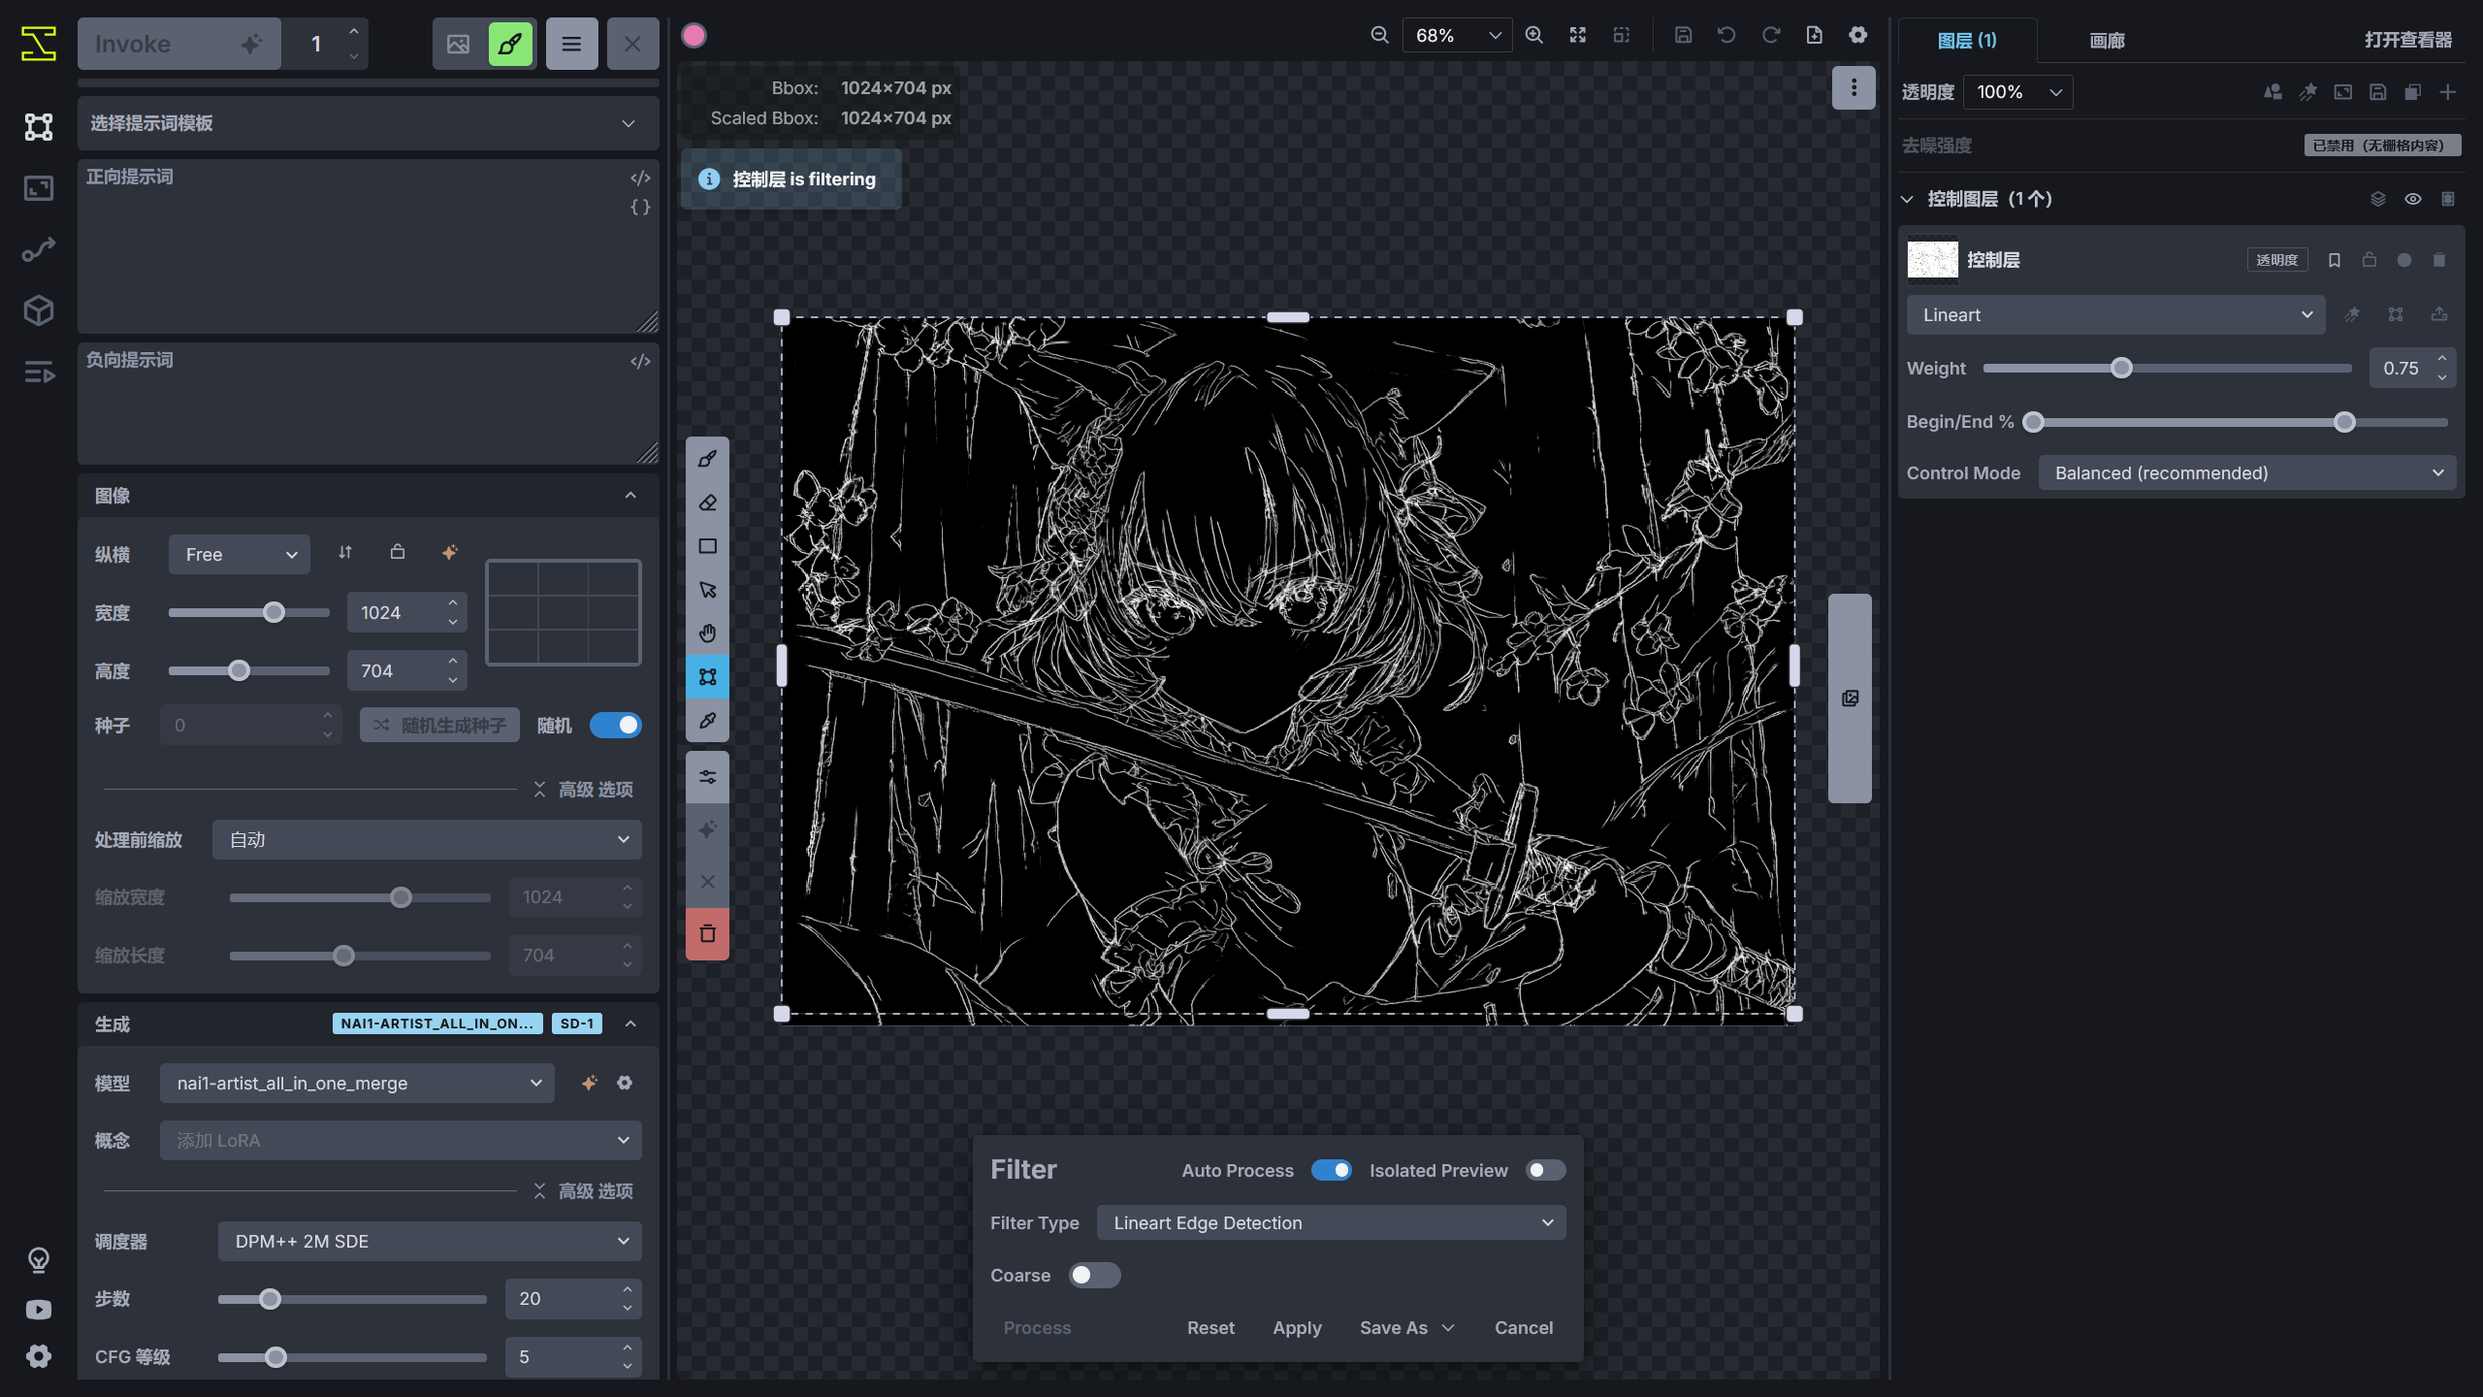
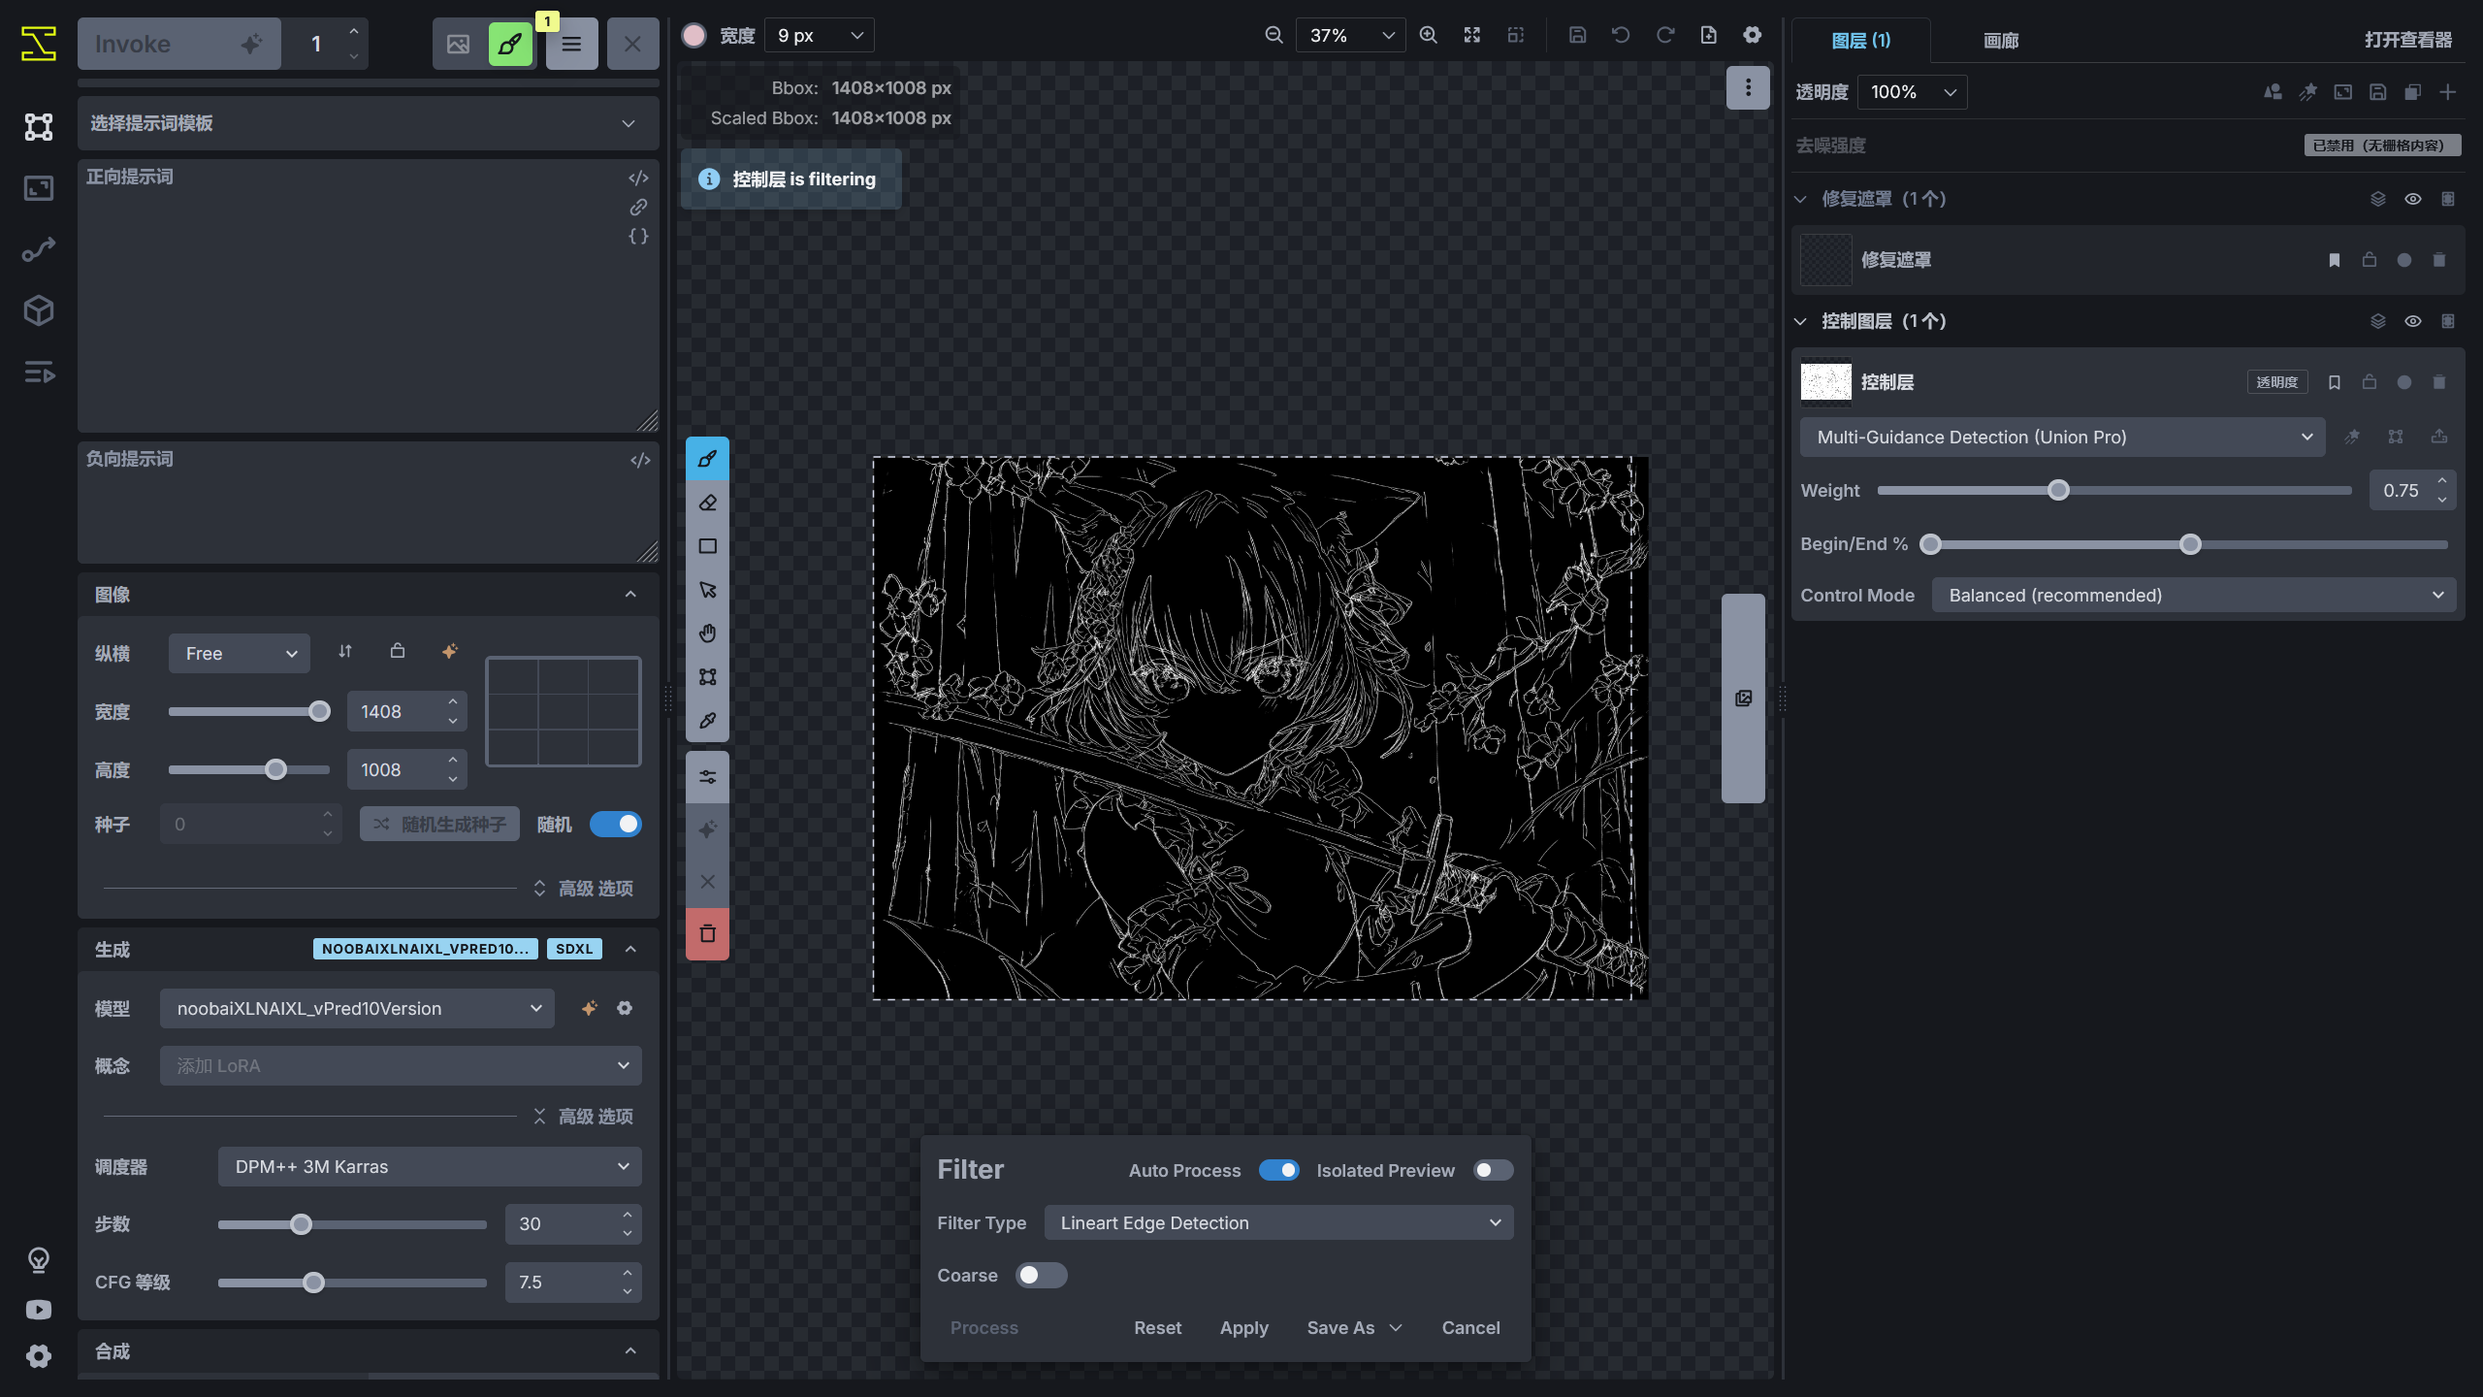
update

diff --git a/docs/guide/invokeai/canvas.md b/docs/guide/invokeai/canvas.md
@@ -544,7 +544,60 @@ masterpiece,best quality,newest,amazing quality,very aesthetic,absurdres,
 
 _这张我是真喜欢~_
 
-<!-- TODO: 下面的教程基于 sd 1.5 的, 得重新写一遍了 -->
+
+### 背景替换
+前面的那张图片是纯色背景的，现在我想把背景替换一下，
+
+此时可以选择该图片的**栅格层**，右键画布，使用**元素选取(Select Object)**功能将图片的人物选取出来。
+
+![use_select_object_to_select_character](../../assets/images/guide/invokeai/canvas/use_select_object_to_select_character.png)
+
+因为现在需要替换背景，所以将选择结果进行反选，启用 **Invert Selection** 后原来的结果将进行反选。
+
+![invert_select_object_result](../../assets/images/guide/invokeai/canvas/invert_select_object_result.png)
+
+此时点击 **Save As** 将选择结果保存为**修复遮罩**。将**去噪强度**设置为 1，再对画面进行描述。
+
+```
+2girls,yuri,hug,heads together,
+outdoors,scenery,park,on grass,flowers,grass,tree,under tree,cherry blossoms,near river,bug,butterfly,pink butterfly,day,blue sky,
+front view,
+masterpiece,best quality,newest,amazing quality,very aesthetic,absurdres,
+```
+
+![modify_replace_background_config](../../assets/images/guide/invokeai/canvas/modify_replace_background_config.png)
+
+现在尝试 **Invoke** 将原图的背景进行重绘。
+
+![replace_background_result_1](../../assets/images/guide/invokeai/canvas/replace_background_result_1.png)
+
+可以看到原来的背景已经替换，并且原来图片中的人物还保持着原来的样子。
+
+但是会发现人物边缘似乎多了另一个人物的影子，这时因为对画面进行描述的提示词中包含了人物的描述，并且**去噪强度**很高，所以模型生成了一个人，但是人物的位置发生了偏移。
+
+这时可以删去提示词中关于人物的描述，这种问题就可以得到缓解，或者可以尝试使用**控制层**控制人物，使人物的位置不发生偏移。
+
+这里**元素选取(Select Object)**功能将图片的人物选取出来，点击 **Save As** 将选取结果保存到**控制层**中。
+
+在刚刚新建的**控制层**选择 **Multi-Guidance Detection (Union Pro)** 模型（如果没有就在 InvokeAI 的模型管理的**初始模型**中下载），再右键该**控制层**，选择 **Fitter**，将保存到**控制层**的图片进行预处理。
+
+![filter_image_for_control_layer](../../assets/images/guide/invokeai/canvas/filter_image_for_control_layer.png)
+
+**Fitter Type** 选择 **Canny Edge Detection**。
+
+![filter_image_for_control_layer_result](../../assets/images/guide/invokeai/canvas/filter_image_for_control_layer_result.png)
+
+将预处理图片的结果点击 **Apply** 进行应用。
+
+![apply_filter_image_result](../../assets/images/guide/invokeai/canvas/apply_filter_image_result.png)
+
+现在在尝试 **Invoke** 进行生成。
+
+![replace_background_result_2](../../assets/images/guide/invokeai/canvas/replace_background_result_2.png)
+
+现在可以发现原来的问题得到了很好的解决。
+
+
 ### 线稿上色与风格迁移
 这里有一张白色的线稿，准备用于上色，一张图片用于保持人物一致性，另一张图片用于画风迁移，此时可以借助统一画布的**控制层**和**区域导向**实现线稿上色和画风迁移。
 
@@ -556,16 +609,16 @@ _这张我是真喜欢~_
 
 ![input_image_to_control_layer](../../assets/images/guide/invokeai/canvas/input_image_to_control_layer.png)
 
-这里先调整边界框的大小，调整好后在右侧的图层面板中选择刚刚新建的**控制层**，再右键画布，选择**图片变换(Transform)**缩放线稿到边界框中。
+这里先调整边界框的大小，调整好后在右侧的图层面板中选择刚刚新建的**控制层**，右键打开菜单，选择**图片变换(Transform)**缩放线稿到边界框中。
 
 ![use_transform_to_resize_image](../../assets/images/guide/invokeai/canvas/use_transform_to_resize_image.png)
 
-缩放完成后点击 **Apply** 将结果应用，在**控制层**的模型选项中选择 Lineart / Lineart Anime 模型。
+缩放完成后点击 **Apply** 将结果应用，在**控制层**的模型选项中选择 **Multi-Guidance Detection (Union Pro)** 模型。
 
 !!!note
-    如果没有模型，需要在 InvokeAI 的模型管理的**初始模型**选项下载 **Lineart** / **Lineart Anime** 模型（需要对应自己使用的大模型版本）。
+    如果没有模型，需要在 InvokeAI 的模型管理的**初始模型**选项下载 **Multi-Guidance Detection (Union Pro)** 模型。
 
-此时 InvokeAI 将选择 ControlNet 模型对应的预处理进行图片预处理。
+再右键该**控制层**，选择 **Fitter**，将保存到**控制层**的图片进行预处理。**Fitter Type** 选择 **Lineart Edge Detection**，再点击 **Apply** 保存预处理结果。
 
 ![select_controlnet_model_and_filter_image](../../assets/images/guide/invokeai/canvas/select_controlnet_model_and_filter_image.png)
 
@@ -574,72 +627,25 @@ _这张我是真喜欢~_
 ![paint_mask_for_regional_reference](../../assets/images/guide/invokeai/canvas/paint_mask_for_regional_reference.png)
 
 !!!note
-    **区域导向**所需的模型需要在 InvokeAI 的模型管理的**初始模型**选项中下载，对应的模型名称为 IP Adapter。
+    **区域导向**所需的模型需要在 InvokeAI 的模型管理的**初始模型**选项中下载，对应的模型名称为 **Standard Reference (IP Adapter ViT-H)**。
 
 绘制蒙版完成后，调整**控制层**和**区域导向**的参数，再填写提示词。
 
 ```
-asagi0398, 
 1girl,solo,cherry blossoms,hair flower,pink flower,hair ribbon,cat ears,animal ear fluff,blue eyes,grey hair,short hair,bangs,hair between eyes,eyebrows visible through hair,blush,closed mouth,neck ribbon,white dress,crease,frilled_collar,detached_sleeves,flat chest,
 holding sword,looking at viewer,dynamic pose,
 battoujutsu stance,motion blur,sword,battoujutsu stance,bamboo forest,
 upper body,
-masterpiece,best quality,newest,
+masterpiece,best quality,newest,amazing quality,very aesthetic,absurdres,
 ```
 
 ![configure_control_layer_and_regional_reference](../../assets/images/guide/invokeai/canvas/configure_control_layer_and_regional_reference.png)
 
 调整参数后尝试几次 **Invoke**，从中挑选一个比较好的结果。
 
-![configure_control_layer_and_regional_reference](../../assets/images/guide/invokeai/canvas/configure_control_layer_and_regional_reference.png)
+![use_control_layer_and_regional_reference_to_generate_image](../../assets/images/guide/invokeai/canvas/use_control_layer_and_regional_reference_to_generate_image.png)
 
 现在可以看到线稿已经上色了，并且画风成功迁移到上色后的图片中。
-
-
-### 背景替换
-这是一张图片，打算把背景的内容进行替换。
-
-![image_to_replace_background](../../assets/images/guide/invokeai/canvas/image_to_replace_background.png)
-
-此时可以选择该图片的**栅格层**，右键画布，使用**元素选取(Select Object)**功能将图片的人物选取出来。
-
-![use_select_object_to_select_character](../../assets/images/guide/invokeai/canvas/use_select_object_to_select_character.png)
-
-因为现在需要替换背景，所以将选择结果进行反选，启用 **Invert Selection** 后原来的结果将进行反选。
-
-![invert_select_object_result](../../assets/images/guide/invokeai/canvas/invert_select_object_result.png)
-
-此时点击 **Save As** 将选择结果保存为**修复遮罩**。将**去噪强度**设置比较高的值，再对画面进行描述。
-
-![modify_replace_background_config](../../assets/images/guide/invokeai/canvas/modify_replace_background_config.png)
-
-现在尝试 **Invoke** 将原图的背景进行重绘。
-
-![replace_background_result_1](../../assets/images/guide/invokeai/canvas/replace_background_result_1.png)
-
-可以看到原来的背景已经替换，并且原来图片中的人物还保持着原来的样子。
-
-但是将**去噪强度**设置为更高的值或者 1 时，可能会发现人物边缘似乎多了另一个人物的影子，这时因为对画面进行描述的提示词中包含了人物的描述，并且**去噪强度**很高，所以模型生成了一个人，但是人物的位置发生了偏移。
-
-这时可以删去提示词中关于人物的描述，并且将**去噪强度**设置为 1，这种问题就可以得到缓解，或者可以尝试使用**控制层**控制人物，使人物的位置不发生偏移。
-
-这里**元素选取(Select Object)**功能将图片的人物选取出来，点击 **Save As** 将选取结果保存到**控制层**中。
-
-![use_select_object_to_select_character_again](../../assets/images/guide/invokeai/canvas/use_select_object_to_select_character_again.png)
-
-在刚刚新建的**控制层**选择 ControlNet Canny 模型（如果没有就在 InvokeAI 的模型管理的**初始模型**中下载），将保存到**控制层**的图片进行预处理。
-
-![filter_image_for_control_layer](../../assets/images/guide/invokeai/canvas/filter_image_for_control_layer.png)
-
-将预处理图片的结果点击 **Apply** 进行应用。
-
-![apply_filter_image_result](../../assets/images/guide/invokeai/canvas/apply_filter_image_result.png)
-
-现在在尝试 **Invoke** 进行生成。
-
-![replace_background_result_2](../../assets/images/guide/invokeai/canvas/replace_background_result_2.png)
-
-现在可以发现原来的问题得到了很好的解决。
 
 
 ### 其他应用

diff --git a/docs/guide/sd_webui/install.md b/docs/guide/sd_webui/install.md
@@ -1,6 +1,5 @@
 # Windows 平台
-
-## 整合包部署
+## 整合包(秋葉aaaki)部署
 （推荐）前往 [秋葉aaaki](https://space.bilibili.com/12566101) 的视频获取下载链接。  
 [【AI绘画·24年3月最新】Stable Diffusion整合包v4.7发布！解压即用 防爆显存 三分钟入门AI绘画 ☆更新 ☆训练 ☆汉化 秋叶整合包](https://www.bilibili.com/video/BV1iM4y1y7oA)
 
@@ -14,6 +13,10 @@
 
 !!!note
     秋葉的整合包密码为`bilibili-秋葉aaaki`，详情请阅读[秋葉aaaki的动态](https://www.bilibili.com/opus/923836599107584017)。
+
+
+## 整合包(licyk)部署
+[AI 绘画 / 训练整合包 · licyk/sd-webui-all-in-one · Discussion #1](https://github.com/licyk/sd-webui-all-in-one/discussions/1)
 
 
 ## 绘世启动器部署

diff --git a/docs/guide/sd_webui_forge/install.md b/docs/guide/sd_webui_forge/install.md
@@ -1,7 +1,15 @@
 # Windows 平台
+## 整合包(秋葉aaaki)部署
+[【AI绘画】SD-Forge 整合包发布！支持 SD3.5、FLUX 模型，解压即用 一键启动 ☆更新 ☆汉化 秋叶整合包](https://www.bilibili.com/video/BV1rc6nYNEYo)
+
+
+## 整合包(licyk)部署
+[AI 绘画 / 训练整合包 · licyk/sd-webui-all-in-one · Discussion #1](https://github.com/licyk/sd-webui-all-in-one/discussions/1)
+
 
 ## 使用绘世启动器安装
 [【AI 绘画】更快？更省显存？支持 FLUX？使用绘世启动器安装 SD WebUI Forge](https://www.bilibili.com/video/BV1rNYre4E5B)
+
 
 ## 使用 SD WebUI Installer 部署
 [SD WebUI Installer - licyk/sd-webui-all-in-one](https://github.com/licyk/sd-webui-all-in-one/blob/main/stable_diffusion_webui_installer.md)

diff --git a/docs/index.md b/docs/index.md
@@ -50,10 +50,12 @@ title: 主页
 
 
 ## 项目
-本文档涉及三个项目：
+本文档涉及以下项目：
 
 - Stable Diffusion WebUI：一个基于 Gradio 库的 Stable Diffusion 界面。
+- Stable Diffusion WebUI Forge：基于 Stable Diffusion WebUI。
 - ComfyUI：一个可搭建节点流的 Stable Diffusion 界面。
+- InvokeAI：拥有强大的统一画布的 Stable Diffusion 界面。
 - 绘世启动器：一个简化 Stable Diffusion 界面的安装和管理的启动器。
 
 

diff --git a/docs/guide/comfyui/install.md b/docs/guide/comfyui/install.md
@@ -1,6 +1,10 @@
 # Windwos 平台
-## 整合包部署
+## 整合包(秋葉aaaki)部署
 [【AI绘画】ComfyUI整合包发布！解压即用 一键启动 工作流版界面 超多节点 ☆更新 ☆汉化 秋叶整合包_哔哩哔哩_bilibili](https://www.bilibili.com/video/BV1Ew411776J)
+
+
+## 整合包(licyk)部署
+[AI 绘画 / 训练整合包 · licyk/sd-webui-all-in-one · Discussion #1](https://github.com/licyk/sd-webui-all-in-one/discussions/1)
 
 
 ## 绘世启动器部署

diff --git a/docs/guide/invokeai/install.md b/docs/guide/invokeai/install.md
@@ -1,4 +1,7 @@
 # Windows
+## 整合包部署
+[AI 绘画 / 训练整合包 · licyk/sd-webui-all-in-one · Discussion #1](https://github.com/licyk/sd-webui-all-in-one/discussions/1)
+
 ## 使用 InvokeAI Installer 部署
 [InvokeAI Installer - licyk/sd-webui-all-in-one](https://github.com/licyk/sd-webui-all-in-one/blob/main/invokeai_installer.md)
 
